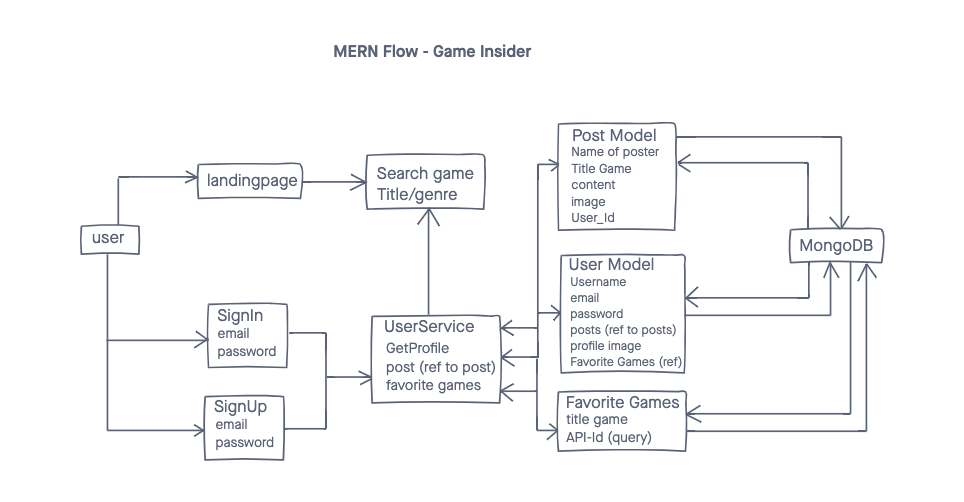
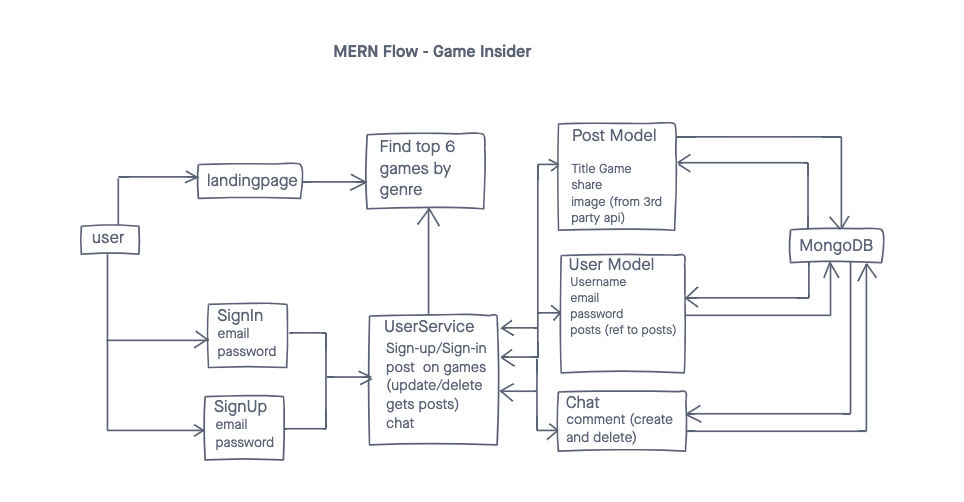
readme updated

diff --git a/readme.md b/readme.md
@@ -8,21 +8,20 @@ By: Lisa Venneker Wand
 [LinkedIn](https://www.linkedin.com/in/lisa-venneker-wand-8413ab25/) 
 
 ## Description
-Site to find video games by their titles and genres.
-Signed-in users, can share posts, and track their favorite games.
+Site to find the top 6 video games by genre.
+Signed-in users, can share, update and delete posts and feel free to share your mind in chat!
 
 ## Technologies used
 ![logos](./img/MERN.png)
 
 ## Getting Started
-Use this app for more information about your favorite video game, or to know more more about upcoming games! 
-Also, feel like talking games, share and post!
+Sign-up and sign-in and browse game and post/update/delete as you like.
+Don't feel like signing-up, you can still browse the games and review the information
 
 ## User Stories
-1. As a user I can search a game by its title.
-2. As a user I can search games by genre.
-3. As a user I can sign-up/sign-in, go to my account and save and find my favorite games.
-4. As a user I can place posts about games.
+1. As a user I can search games by genre.
+2. As a user I can sign-up/sign-in, browse games by genre, and post on the ones I want.
+3. As a user I can chat with other users.
 
 
 ## Wireframe
@@ -35,5 +34,11 @@ To follow ones app is done.
 Code Snippet of API
 ![code snippet](./img/codesnippet.png)
 
+## Future Updates
+- Make search function for game by title.
+- Add user name to posts.
+
+
 ## Credits
 - Data on video games: https://rawg.io/apidocs
+- Image Space Invaders: https://www.pexels.com/
